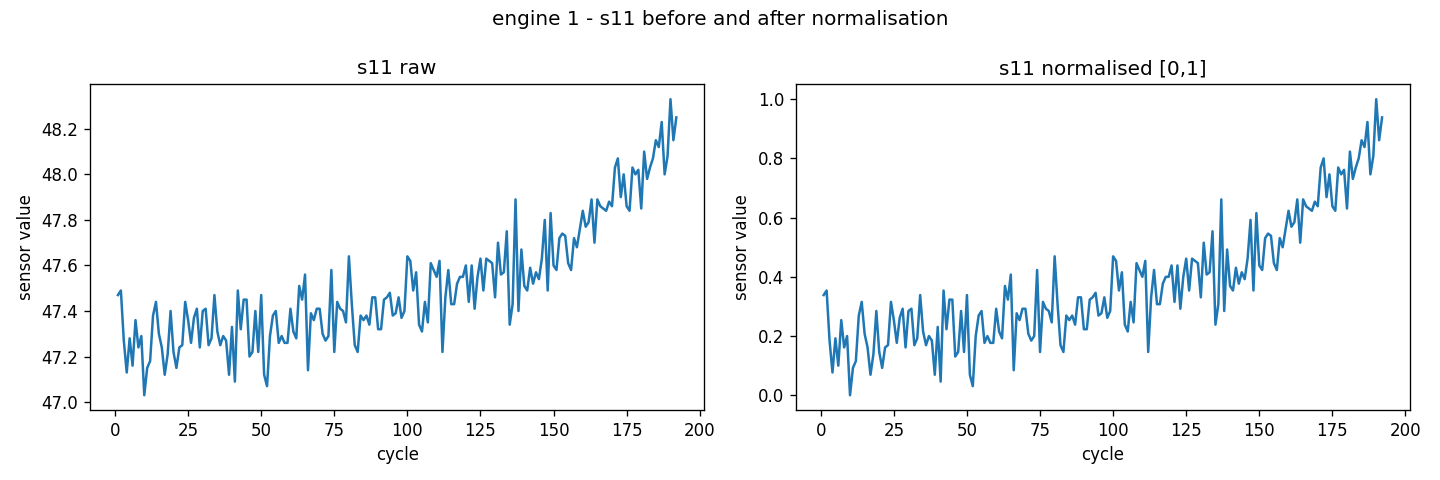
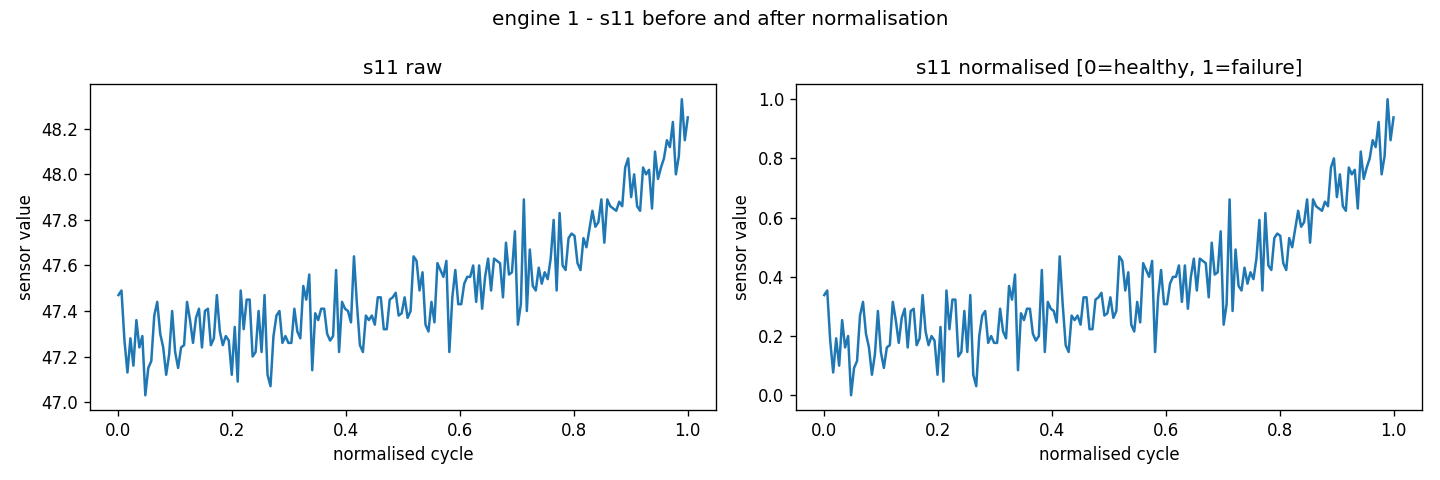
tested HMC sampler on single engine single sensor

diff --git a/03_hmc_sampler.py b/03_hmc_sampler.py
@@ -1,0 +1,140 @@
+import numpy as np
+
+# load the clean arrays from preprocessing
+cycles = np.load("results/samples/cycles_engine1.npy")
+y_obs  = np.load("results/samples/y_obs_engine1.npy")
+
+#  priors
+# these are on the normalised scale (y_obs is in [0,1], mean ~0.37)
+# alpha: where s11 starts. mean of y_obs is ~0.37 so prior centres there
+# beta: how fast s11 changes per cycle. s11 increases with degradation so beta is positive
+# sigma: sensor noise on the normalised scale
+mu_alpha    =  0.1    # engine starts near 0 on normalised scale (fresh = low s11)
+sigma_alpha =  0.2
+mu_beta     =  0.6    # s11 rises ~0.6 units over normalised cycle range
+sigma_beta  =  0.3
+sigma_noise =  0.15   # sensor noise on normalised scale
+
+# hmc hyperparameters
+epsilon  = 0.014   # tuned to hit ~75% acceptance rate
+L        = 20      # leapfrog steps per iteration
+n_samples = 2000
+burn_in   = 500
+
+
+def log_likelihood(alpha, beta, y_obs, cycles, sigma):
+    # gaussian log-likelihood: how well do (alpha, beta) explain the sensor readings
+    # sum of log N(y_t | alpha + beta*t, sigma) over all cycles
+    mu_pred = alpha + beta * cycles
+    return -0.5 * np.sum(((y_obs - mu_pred) / sigma) ** 2)
+
+
+def log_prior(alpha, beta):
+    # gaussian priors on both params
+    # penalises values far from our prior beliefs about alpha and beta
+    lp_alpha = -0.5 * ((alpha - mu_alpha) / sigma_alpha) ** 2
+    lp_beta  = -0.5 * ((beta  - mu_beta)  / sigma_beta)  ** 2
+    return lp_alpha + lp_beta
+
+
+def log_posterior(alpha, beta):
+    # the thing hmc navigates - just likelihood + prior in log space
+    # p(D) cancels in the acceptance ratio so we never compute it
+    return log_likelihood(alpha, beta, y_obs, cycles, sigma_noise) + log_prior(alpha, beta)
+
+
+def compute_gradients(alpha, beta):
+    # analytical gradients of log_posterior w.r.t. alpha and beta
+    # these act as the force that drives the leapfrog integrator
+    residuals = y_obs - (alpha + beta * cycles)
+
+    grad_alpha = (1 / sigma_noise**2) * np.sum(residuals) \
+                 - (alpha - mu_alpha) / sigma_alpha**2
+
+    grad_beta  = (1 / sigma_noise**2) * np.sum(cycles * residuals) \
+                 - (beta - mu_beta) / sigma_beta**2
+
+    return np.array([grad_alpha, grad_beta])
+
+
+def leapfrog(theta, p, epsilon, L):
+    # simulates a ball rolling across the posterior landscape for L steps
+    # staggered half-step momentum, full-step position keeps energy ~conserved
+    theta = theta.copy()
+    p = p.copy()
+
+    # half step for momentum at the start
+    p += (epsilon / 2) * compute_gradients(theta[0], theta[1])
+
+    for _ in range(L - 1):
+        theta += epsilon * p                                        # full position step
+        p     += epsilon * compute_gradients(theta[0], theta[1])   # full momentum step
+
+    theta += epsilon * p                                            # final position step
+    p     += (epsilon / 2) * compute_gradients(theta[0], theta[1]) # final half momentum step
+
+    return theta, p
+
+
+def hmc_sampler():
+    # main loop - each iteration proposes a new (alpha, beta) via leapfrog
+    # then accepts or rejects it based on how much energy changed
+
+    # start at prior means - reasonable starting point
+    theta = np.array([mu_alpha, mu_beta])
+
+    samples      = np.zeros((n_samples, 2))
+    accepted     = 0
+    delta_H_vals = []   # track energy change each step - should stay near 0
+
+    for i in range(n_samples):
+        # draw fresh momentum each iteration - this is the hmc trick
+        p = np.random.randn(2)
+
+        # current hamiltonian: potential energy + kinetic energy
+        # U = -log_posterior (negative bc posterior peak = energy minimum)
+        # K = p^2 / 2
+        H_current = -log_posterior(theta[0], theta[1]) + 0.5 * np.dot(p, p)
+
+        # propose new (theta, p) by running leapfrog
+        theta_proposed, p_proposed = leapfrog(theta, p, epsilon, L)
+
+        H_proposed = -log_posterior(theta_proposed[0], theta_proposed[1]) + 0.5 * np.dot(p_proposed, p_proposed)
+
+        # metropolis acceptance step
+        # if proposed has lower energy (higher posterior) - always accept
+        # if higher energy - accept with probability exp(H_current - H_proposed)
+        delta_H = H_current - H_proposed
+        delta_H_vals.append(delta_H)
+
+        if np.log(np.random.rand()) < delta_H:
+            theta = theta_proposed
+            accepted += 1
+
+        samples[i] = theta
+
+    acceptance_rate = accepted / n_samples
+    return samples, acceptance_rate, np.array(delta_H_vals)
+
+
+print("running hmc sampler...")
+samples, acceptance_rate, delta_H_vals = hmc_sampler()
+
+print(f"done. acceptance rate: {acceptance_rate:.2%}")
+print(f"target is 60-80% - {'ok' if 0.6 <= acceptance_rate <= 0.8 else 'needs tuning'}")
+
+# quick look at posterior
+post_samples = samples[burn_in:]
+alpha_samples = post_samples[:, 0]
+beta_samples  = post_samples[:, 1]
+
+print(f"\nalpha — mean: {alpha_samples.mean():.4f}  std: {alpha_samples.std():.4f}")
+print(f"beta  — mean: {beta_samples.mean():.4f}  std: {beta_samples.std():.4f}")
+print(f"delta_H — mean: {delta_H_vals.mean():.4f}  (should be near 0)")
+
+# save samples for diagnostics and rul prediction
+import os
+os.makedirs("results/samples", exist_ok=True)
+np.save("results/samples/hmc_samples_engine1.npy", samples)
+np.save("results/samples/delta_H_engine1.npy", delta_H_vals)
+print("\nsamples saved to results/samples/")

diff --git a/02_preprocessing.py b/02_preprocessing.py
@@ -17,15 +17,20 @@ data = np.loadtxt(data_path)
 engine_id = 1
 engine_data = data[data[:, 0] == engine_id]
 
-cycles = engine_data[:, 1]       # cycle numbers 1..N
-s11_raw = engine_data[:, 15]     # s11 is our health proxy (highest corr with cycle)
+cycles_raw = engine_data[:, 1]    # cycle numbers 1..N
+s11_raw    = engine_data[:, 15]  # s11 is our health proxy (highest corr with cycle)
 
-print(f"engine {engine_id}: {len(cycles)} cycles")
+# normalise cycles to [0,1] too - otherwise grad_beta explodes in the sampler
+# (it sums cycle * residual across all steps, cycles up to 192 makes gradients huge)
+cycles = (cycles_raw - cycles_raw.min()) / (cycles_raw.max() - cycles_raw.min())
+
+print(f"engine {engine_id}: {len(cycles_raw)} cycles")
 print(f"s11 raw  — min: {s11_raw.min():.3f}  max: {s11_raw.max():.3f}  mean: {s11_raw.mean():.3f}")
 
-# --- normalise s11 to [0, 1] ---
-# we do this so priors and HMC step sizes live in a sensible range
-# without this, s11 might be in the hundreds while our prior on alpha is around 1
+# --- normalise s11 to [0, 1] and flip it ---
+# s11 increases with degradation, but our health model needs h(t) to start near 0 and rise to 1
+# so we just do standard min-max - low s11 (healthy) maps to 0, high s11 (failing) maps to 1
+# RUL formula becomes: t_RUL = (1 - alpha) / beta
 s11_min = s11_raw.min()
 s11_max = s11_raw.max()
 s11_norm = (s11_raw - s11_min) / (s11_max - s11_min)
@@ -37,12 +42,12 @@ fig, axes = plt.subplots(1, 2, figsize=(12, 4))
 
 axes[0].plot(cycles, s11_raw)
 axes[0].set_title("s11 raw")
-axes[0].set_xlabel("cycle")
+axes[0].set_xlabel("normalised cycle")
 axes[0].set_ylabel("sensor value")
 
 axes[1].plot(cycles, s11_norm)
-axes[1].set_title("s11 normalised [0,1]")
-axes[1].set_xlabel("cycle")
+axes[1].set_title("s11 normalised [0=healthy, 1=failure]")
+axes[1].set_xlabel("normalised cycle")
 axes[1].set_ylabel("sensor value")
 
 fig.suptitle(f"engine {engine_id} - s11 before and after normalisation")
